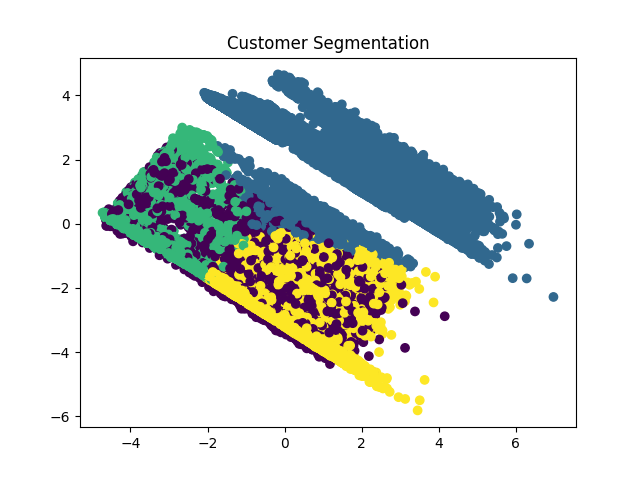
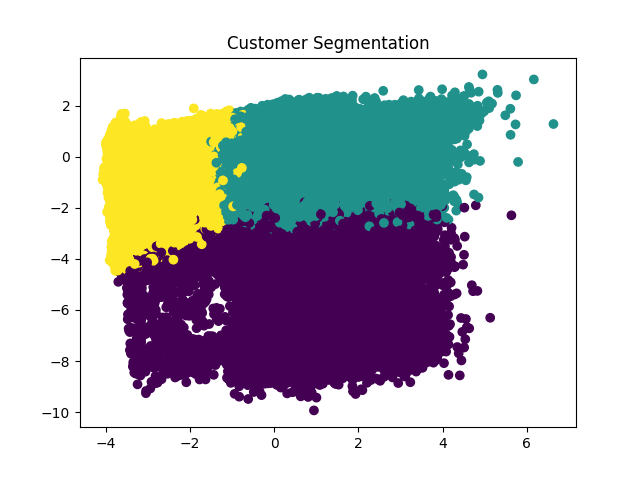
README

diff --git a/README.md b/README.md
@@ -1,1 +1,113 @@
 # ML_project
+
+# Census Income Machine Learning Project
+
+## 1. Project Objective
+
+This project aims to:
+
+1. Build a **classification model** to predict whether a person earns:
+   - `<= $50,000`
+   - `> $50,000`
+2. Develop a **customer segmentation model** to group individuals for marketing purposes.
+
+The dataset consists of **40 demographic and employment-related features** extracted from **U.S. Census data**.
+
+---
+
+## 2. Project Structure
+
+census-income-ml-project/
+│
+├── data/
+│ ├── census-bureau.data
+│ └── census-bureau.columns
+│
+├── src/
+│ ├── data_preprocessing.py
+│ ├── classification.py
+│ ├── segmentation.py
+│
+├── requirements.txt
+├── README.md
+
+
+---
+
+## 3. Installation Instructions
+
+### 3.1 Clone the repository
+
+Copy and paste in your terminal:
+
+```bash
+git clone https://github.com/yourusername/census-income-ml-project.git
+cd census-income-ml-project
+```
+###3.2 Create a virtual environment
+
+Mac/Linux:
+```bash
+python -m venv venv
+source venv/bin/activate
+```
+
+Windows:
+```bash
+python -m venv venv
+venv\Scripts\activate
+```
+###3.3 Install dependencies
+```bash
+pip install -r requirements.txt
+```
+
+#4. Running the Models
+###4.1 Classification Model
+```bash
+cd src
+python classification.py
+```
+
+
+Expected Output:
+
+Accuracy score
+Precision, Recall, F1-score
+
+
+
+###4.2 Segmentation Model
+```bash
+cd src
+python segmentation.py
+```
+
+Expected Output:
+Cluster distribution information
+
+#6. Business Application
+
+###Classification model helps:
+
+Identify high-income individuals for premium product targeting.
+
+###Segmentation model helps:
+
+Personalize marketing campaigns
+Identify demographic clusters
+Allocate advertising budget efficiently
+
+#7. Requirements
+
+```bash
+pandas
+numpy
+scikit-learn
+matplotlib
+seaborn
+jupyter
+```
+#8. Author
+
+Tarun Lagadapati.
